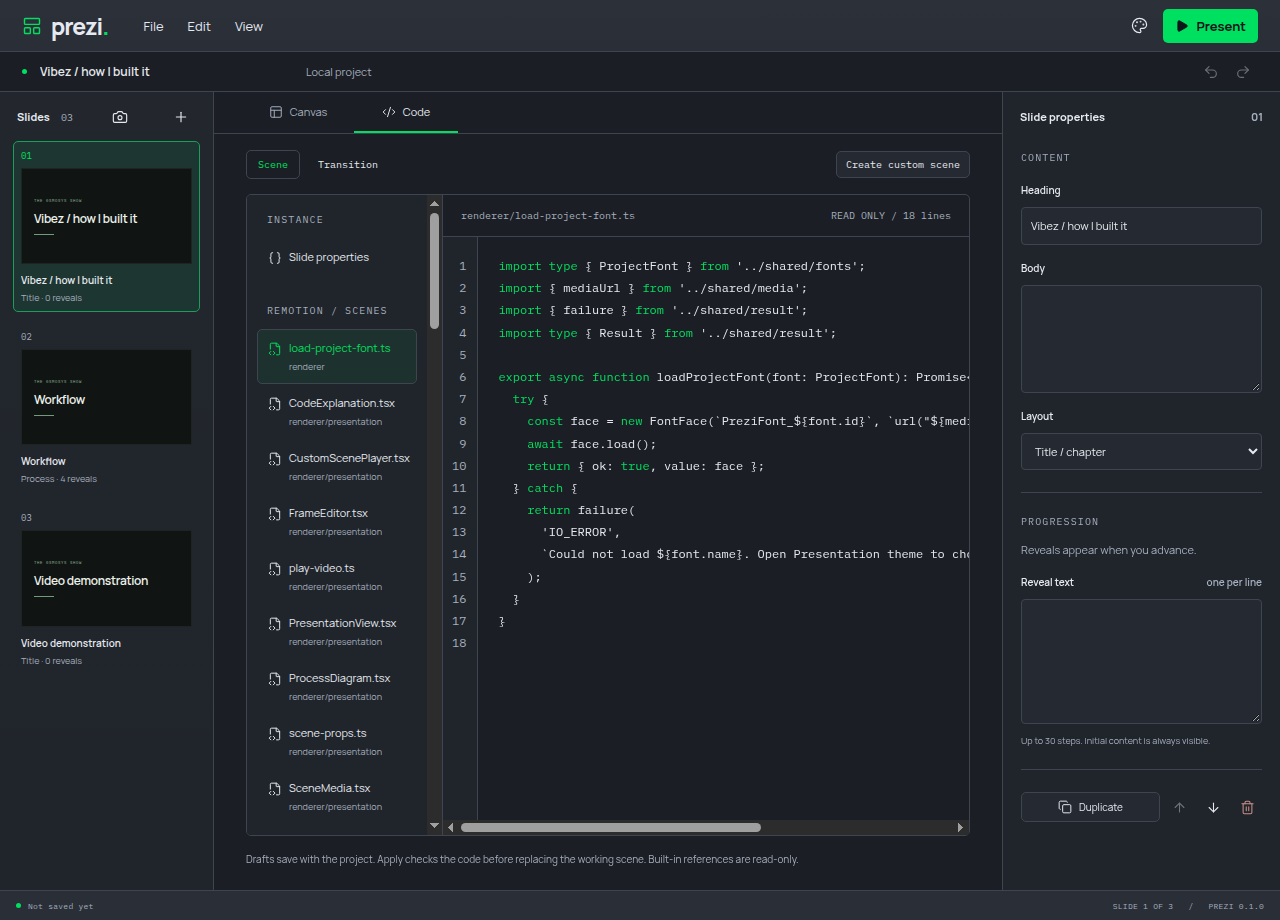
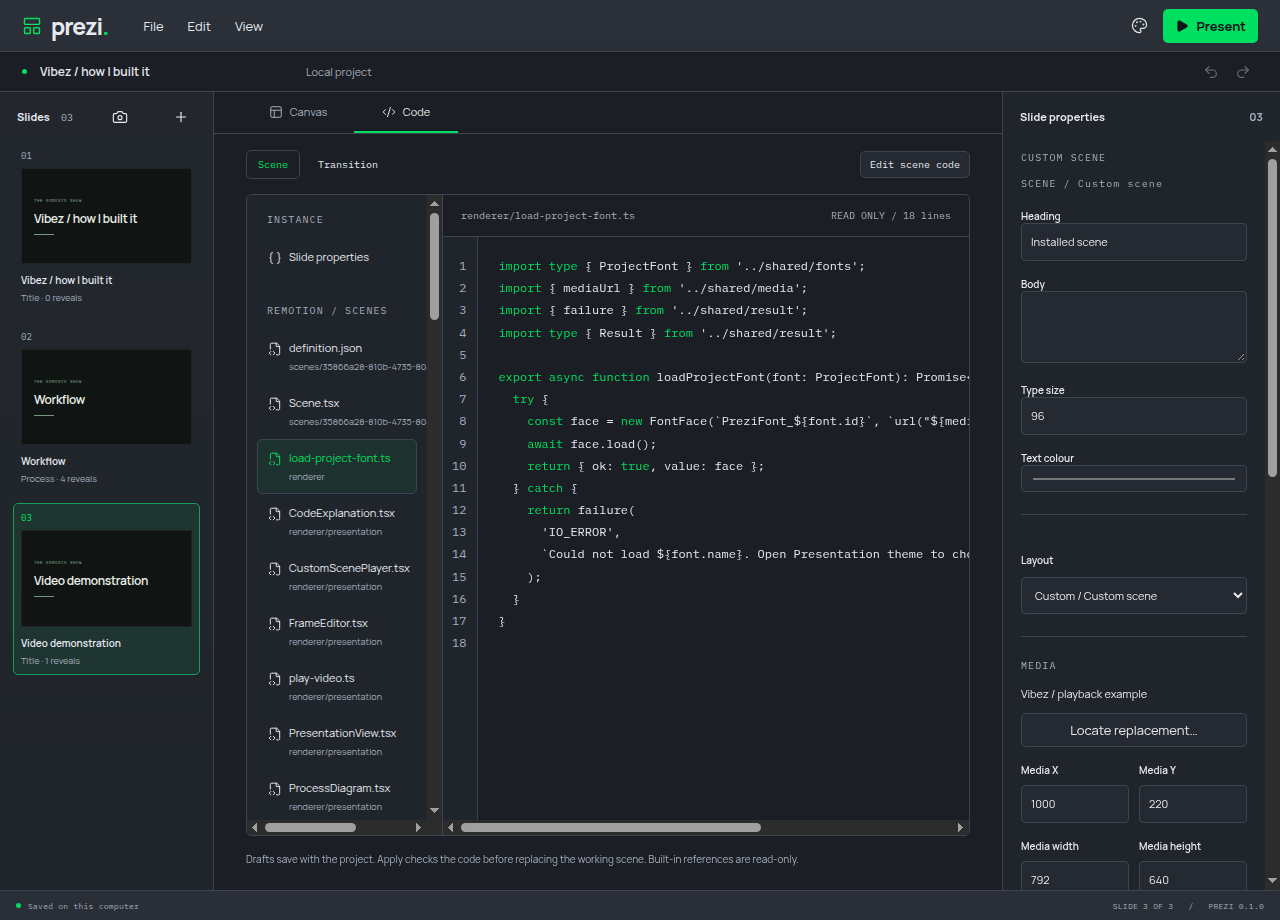
docs: record final installed workflow evidence and resource measurements

diff --git a/docs/verification/desktop-installers.md b/docs/verification/desktop-installers.md
@@ -38,6 +38,14 @@ The Intel macOS installer runner failed twice before dependency installation whi
 
 ## Final implementation verification
 
-The final combined application passed 75 unit tests and 38 real Electron journeys. Fresh Linux 0.1.0 and private 0.1.1 packages were built after scene editing, transitions, fonts, renderer recovery and image limits were complete. Both packaged journeys passed, including isolated custom compilation, imported fonts, pointer video controls and portable reopening. The latest AppImage update rehearsal passed checksum verification, replacement, restart and saved-project recovery again. See [recording rehearsal](recording-rehearsal.md) for the final capture and measured budgets.
+The final combined application passed 77 unit tests and 38 real Electron journeys. Fresh Linux 0.1.0 and private 0.1.1 packages were built after scene editing, transitions, fonts, renderer recovery and image limits were complete. Both packaged journeys passed, including isolated custom compilation, imported fonts, pointer video controls and portable reopening. The latest AppImage update rehearsal passed checksum verification, replacement, restart and saved-project recovery again. See [recording rehearsal](recording-rehearsal.md) for the final capture and measured budgets.
 
-The application code at PR #35 passed Linux x64, Windows x64, macOS arm64 and macOS x64 installer jobs, plus assembly and verification. The final verification PR extends the installed journeys to cover custom scenes and fonts on those runners as well.
+The [final verification PR checks](https://github.com/alexanderwanyoike/prezi/pull/36/checks) cover Linux x64, Windows x64, macOS arm64 and macOS x64 installer journeys, plus assembly and verification. The expanded installed journey includes custom scenes and imported fonts on those runners.
+
+## Installed custom-scene startup
+
+Expanded installed acceptance testing exposed a cross-platform startup race: the host could send the scene before the isolated viewer registered its message listener. The viewer now announces readiness after subscribing and repeats that announcement until a load arrives. The host waits for both readiness and its resource boundary, matches the current instance ID and sends the code once. A failing unit test reproduced the early send before this change; installed Windows and macOS runs confirmed the corrected path. Native transition, viewport and stalled-scene recovery journeys also passed.
+
+Portable source inspection now includes renderer/load-project-font.ts, alongside its font hook. The installed journey imports IBM Plex Mono, compiles a custom scene, verifies its loaded FontFace, plays video through pointer controls, then saves and reopens the .prezi with font, media and source retained. Failure artifacts include the actual interface screenshot, frame URLs, bounded console diagnostics and a trace.
+
+Linux validation requires a user systemd manager with delegated cpu, memory and pids controllers on cgroup v2. The ephemeral CI setup follows the documented rootless systemd delegation pattern and restarts only that runner's user manager. The installer job uses the same ubuntu-latest image as the strict resource-boundary checks. The previous Ubuntu 22.04 image failed user-manager initialization with status 219/CGROUP; it is not a verified custom-scene environment. The application retains its typed error and underlying diagnostic when resource-boundary setup fails. The CI setup script is never run on the user's workstation.

diff --git a/docs/delivery.md b/docs/delivery.md
@@ -4,10 +4,10 @@ All requested implementation checkpoints are complete. The application is availa
 
 ## Verification
 
-- The combined application passed formatting, lint, strict types, 75 unit tests and its production build. All 38 real Electron journeys passed on private displays.
+- The combined application passed formatting, lint, strict types, 77 unit tests and its production build. All 38 real Electron journeys passed on private displays.
 - Both installed Linux journeys passed, including isolated compilation, imported fonts, media controls, shared MCP state and portable reopening. The custom scene was also manually presented with its imported font and playing video.
 - The latest 0.1.0 to 0.1.1 AppImage update passed download/checksum validation, replacement, restart and saved-project recovery.
-- Application code at PR #35 passed all four native installer jobs and release-set assembly. The final verification PR extends installed coverage to custom scenes and fonts.
+- Linux x64, Windows x64, macOS arm64 and macOS x64 installer journeys and complete release-set assembly are covered by the [final verification PR checks](https://github.com/alexanderwanyoike/prezi/pull/36/checks), including custom scenes and imported fonts.
 - An actual OBS recording was decoded and inspected. See [recording rehearsal](verification/recording-rehearsal.md) for frames, counters and measured resource limits.
 
 ## Scope and current limits
@@ -57,4 +57,4 @@ Every feature PR targets dev. These PRs are stacked because dev remains unmerged
 | [#33](https://github.com/alexanderwanyoike/prezi/pull/33) | Move and resize media and mapped custom layers on Canvas             | #32                |
 | [#34](https://github.com/alexanderwanyoike/prezi/pull/34) | Recover stalled custom scenes without blocking the editor            | #33                |
 | [#35](https://github.com/alexanderwanyoike/prezi/pull/35) | Bound image resources before import and decoder access               | #34                |
-| [#36](https://github.com/alexanderwanyoike/prezi/pull/36) | Portable font source and installed/recording verification            | #35                |
+| [#36](https://github.com/alexanderwanyoike/prezi/pull/36) | Reliable installed custom scenes and final verification              | #35                |

diff --git a/docs/verification/recording-rehearsal.md b/docs/verification/recording-rehearsal.md
@@ -14,12 +14,13 @@ Ubuntu OBS packages were extracted privately without a host installation. Their 
 
 | Journey                                 | Kernel charged peak | Memory ceiling | CPU ceiling | Swap ceiling |
 | --------------------------------------- | ------------------: | -------------: | ----------: | -----------: |
-| Installed editor/custom scene checks    |           626.1 MiB |          2 GiB |     2 cores |            0 |
-| Latest 0.1.1 candidate packaging        |          1463.7 MiB |          2 GiB |      1 core |            0 |
-| Download/restart/update handoff         |          1044.2 MiB |          2 GiB |     2 cores |            0 |
+| Linux 0.1.0 AppImage packaging          |          1584.5 MiB |          2 GiB |      1 core |            0 |
+| Installed editor/custom scene checks    |           823.6 MiB |          2 GiB |     2 cores |            0 |
+| Latest 0.1.1 candidate packaging        |          1426.7 MiB |          2 GiB |      1 core |            0 |
+| Download/restart/update handoff         |          1035.1 MiB |          2 GiB |     2 cores |            0 |
 | Xvfb, installed Prezi and OBS rehearsal |           741.5 MiB |          2 GiB |     3 cores |            0 |
 
-These are cgroup charged peaks with warmed filesystem caches, not summed process RSS or universal memory guarantees. The installed custom-scene checks additionally use separately bounded compiler/scene scopes. Every measured parent scope reported zero OOM events. Linux compiler and renderer limits are covered by their separate verification notes; macOS/Windows do not have the Linux cgroup boundary.
+These are cgroup charged peaks with warmed filesystem caches, not summed process RSS or universal memory guarantees. These installed and update measurements follow the final viewer-readiness fix; the recorded built-in slides use the same presentation path as the rehearsal. The installed custom-scene checks additionally use separately bounded compiler/scene scopes. Every measured parent scope reported zero OOM events. Linux compiler and renderer limits are covered by their separate verification notes; macOS/Windows do not have the Linux cgroup boundary.
 
 ![Encoded initial fullscreen frame](../screenshots/recording-title.png)
 

diff --git a/THIRD_PARTY_NOTICES.md b/THIRD_PARTY_NOTICES.md
@@ -87,3 +87,11 @@ Electron's frame tree and process metrics identify the exact prepared scene rend
 ## Image resource limits
 
 image-size 2.0.2 supplies header-only image dimensions under MIT; its licence is retained at [licenses/image-size.txt](licenses/image-size.txt). Its documented buffer API and Forgecut's inspected image dimension limits inform validation before copying or serving image resources. Reads are bounded to 512 KiB; no dependency or reference-application source was copied. Reference: https://github.com/image-size/image-size/tree/v2.0.2 .
+
+## Isolated viewer readiness
+
+Penpal's postMessage connection handshake provides an established reference for waiting for a remote frame before sending calls: https://github.com/Aaronius/penpal . Penpal is MIT licensed. The existing runtime protocol uses a repeated readiness announcement with an instance identity before its single scene load. No Penpal dependency or implementation code was copied.
+
+## Linux CI controller delegation
+
+Docker's rootless resource-limit documentation describes delegating cpu, memory and pids controllers to the user systemd manager: https://docs.docker.com/engine/security/rootless/tips/#limiting-resources . This informs the ephemeral CI fixture needed to exercise enforced renderer budgets. No Docker implementation code was copied or added as a dependency.

diff --git a/CONTEXT.md b/CONTEXT.md
@@ -15,7 +15,7 @@ A local-first Electron presentation app for recording narrated explanations with
 - Presentation position: active slide and reveal, separate from content revisions.
 - Edit batch: labelled atomic content update checked against a revision and identified for retry safety; one undo action.
 
-Checkpoint one covers text editing, saving/reopening and manual Remotion presentation. Media and shared MCP editing complete checkpoint two. Custom scenes and desktop updates/installers are available. Human code authoring, fonts, previews and the recording rehearsal follow.
+All implementation checkpoints are complete: shared UI/MCP editing, manual Remotion presentation, custom scene and transition authoring, portable resources, previews, desktop updates and the external recording rehearsal. See docs/delivery.md for verification, limits and unmerged PR dependencies.
 
 - Presentation theme: saved, revisioned deck colours, fonts, spacing and motion defaults. Separate from application appearance. Custom source receives the resolved theme through SceneProps.
 
